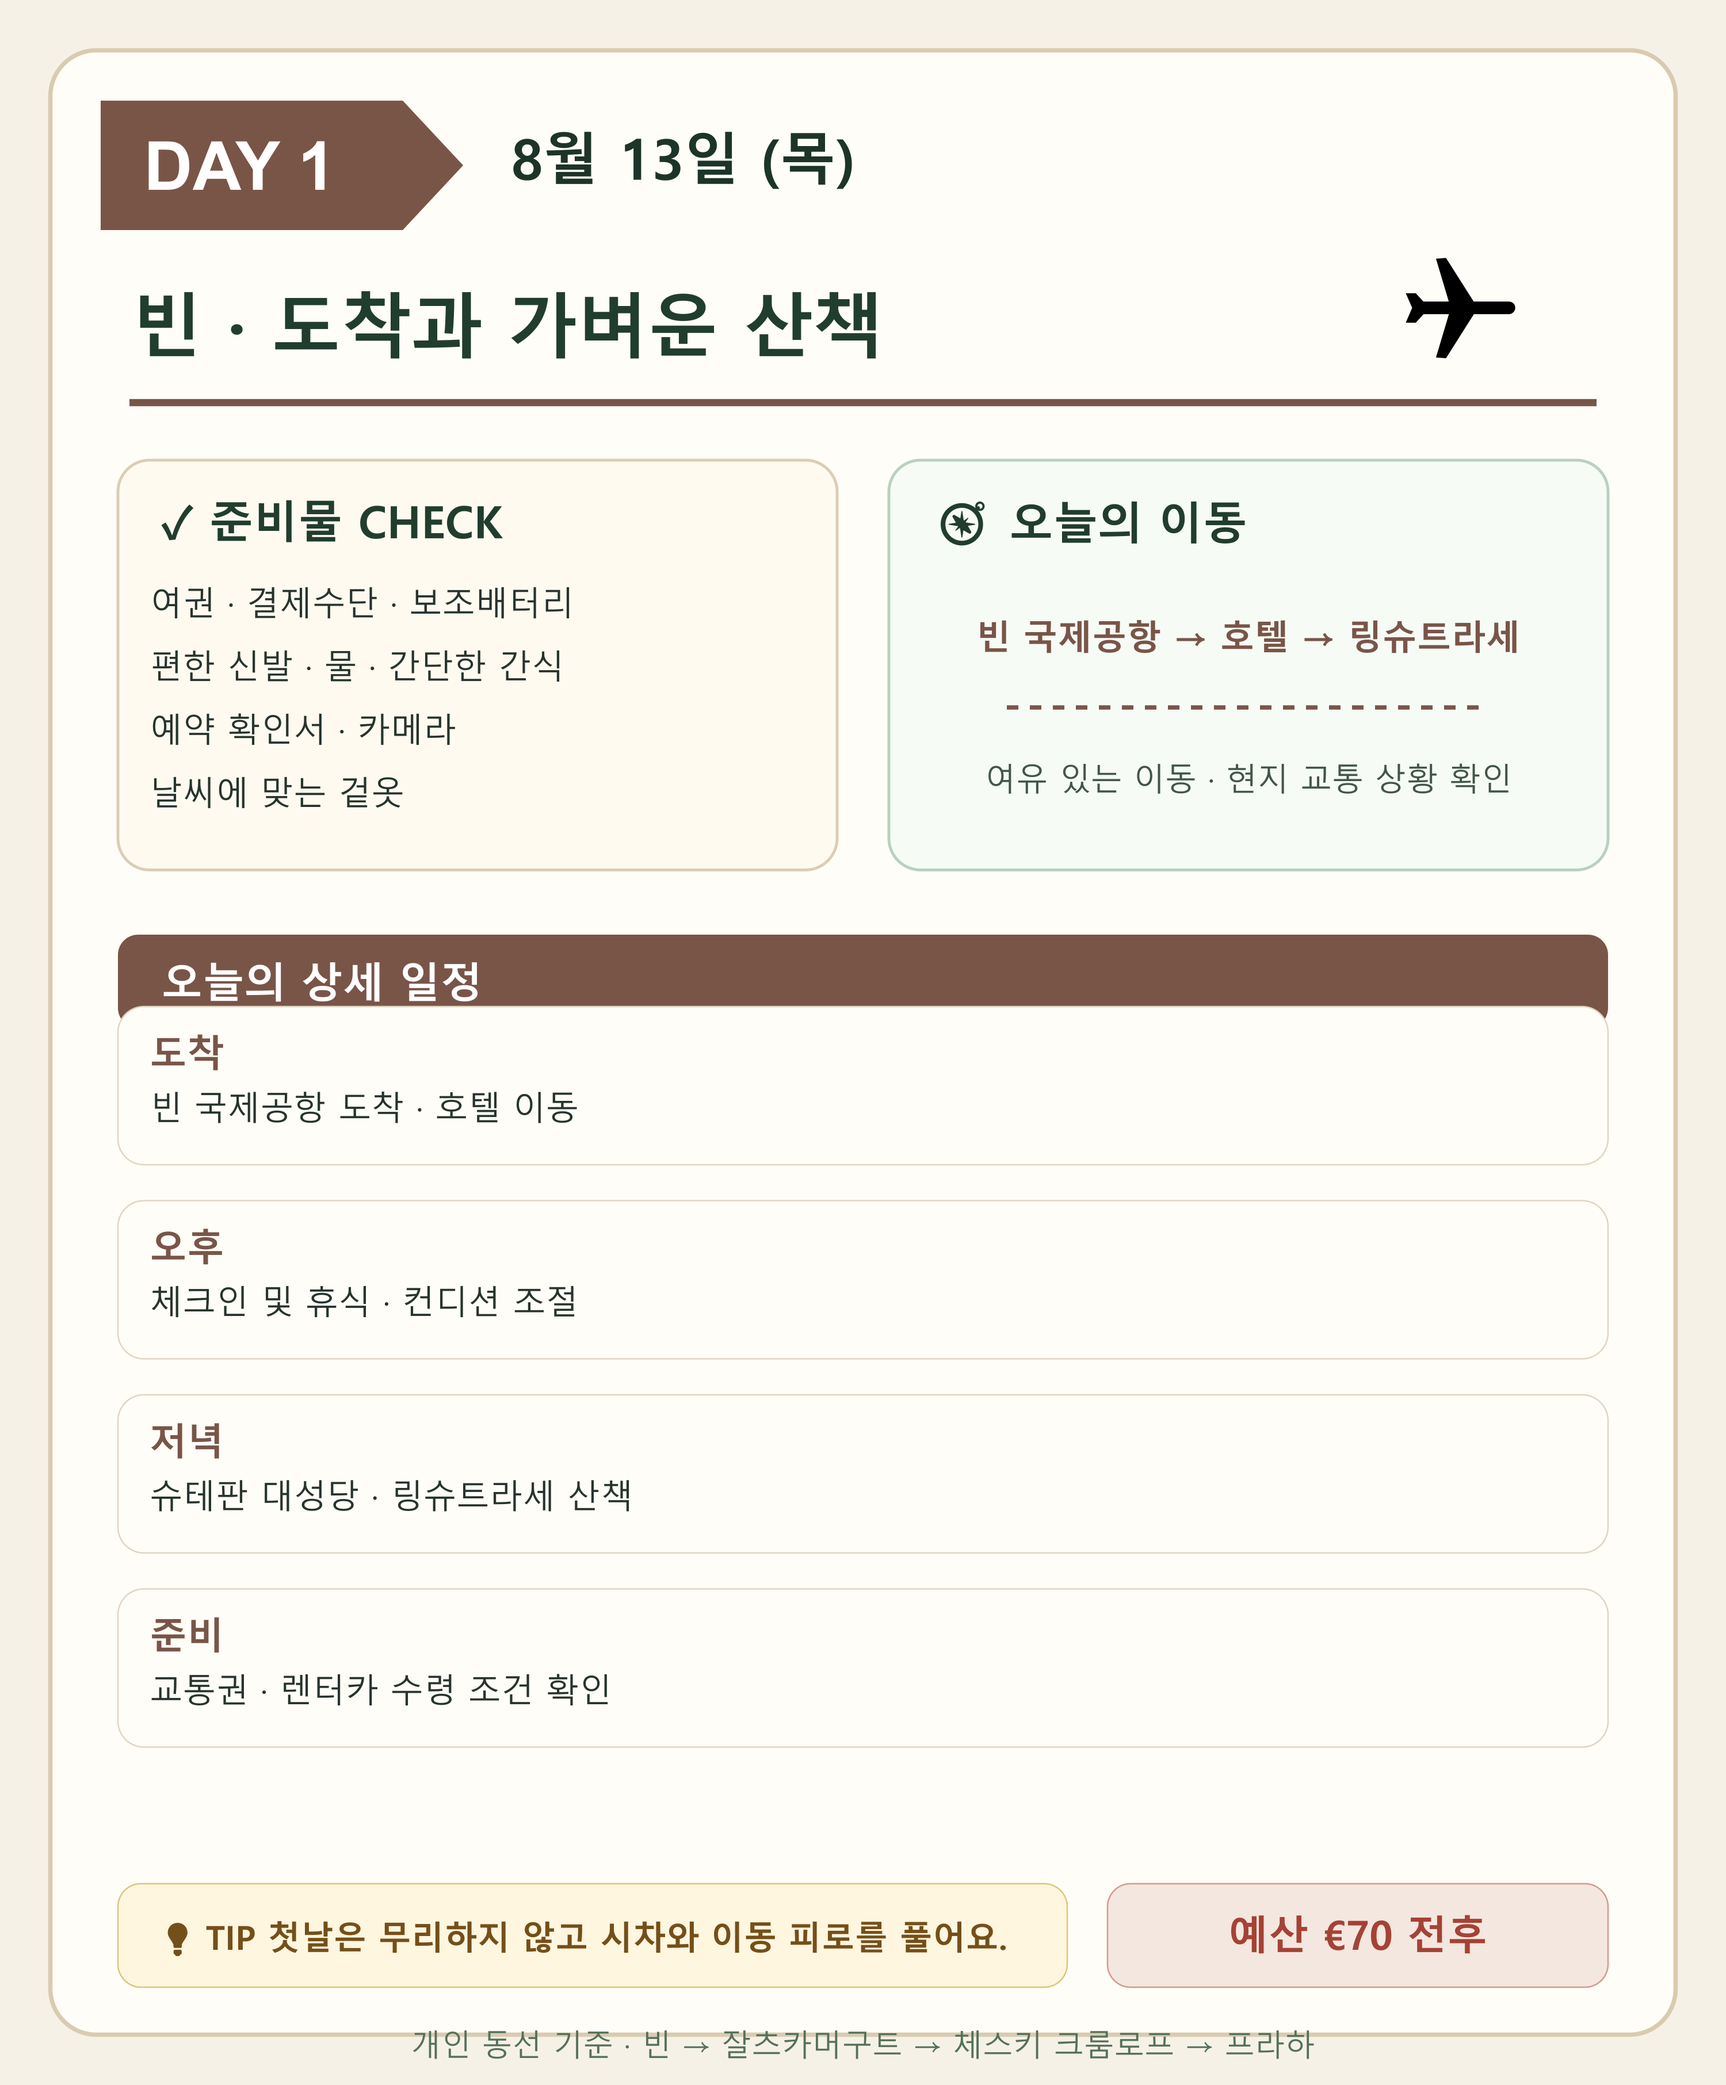
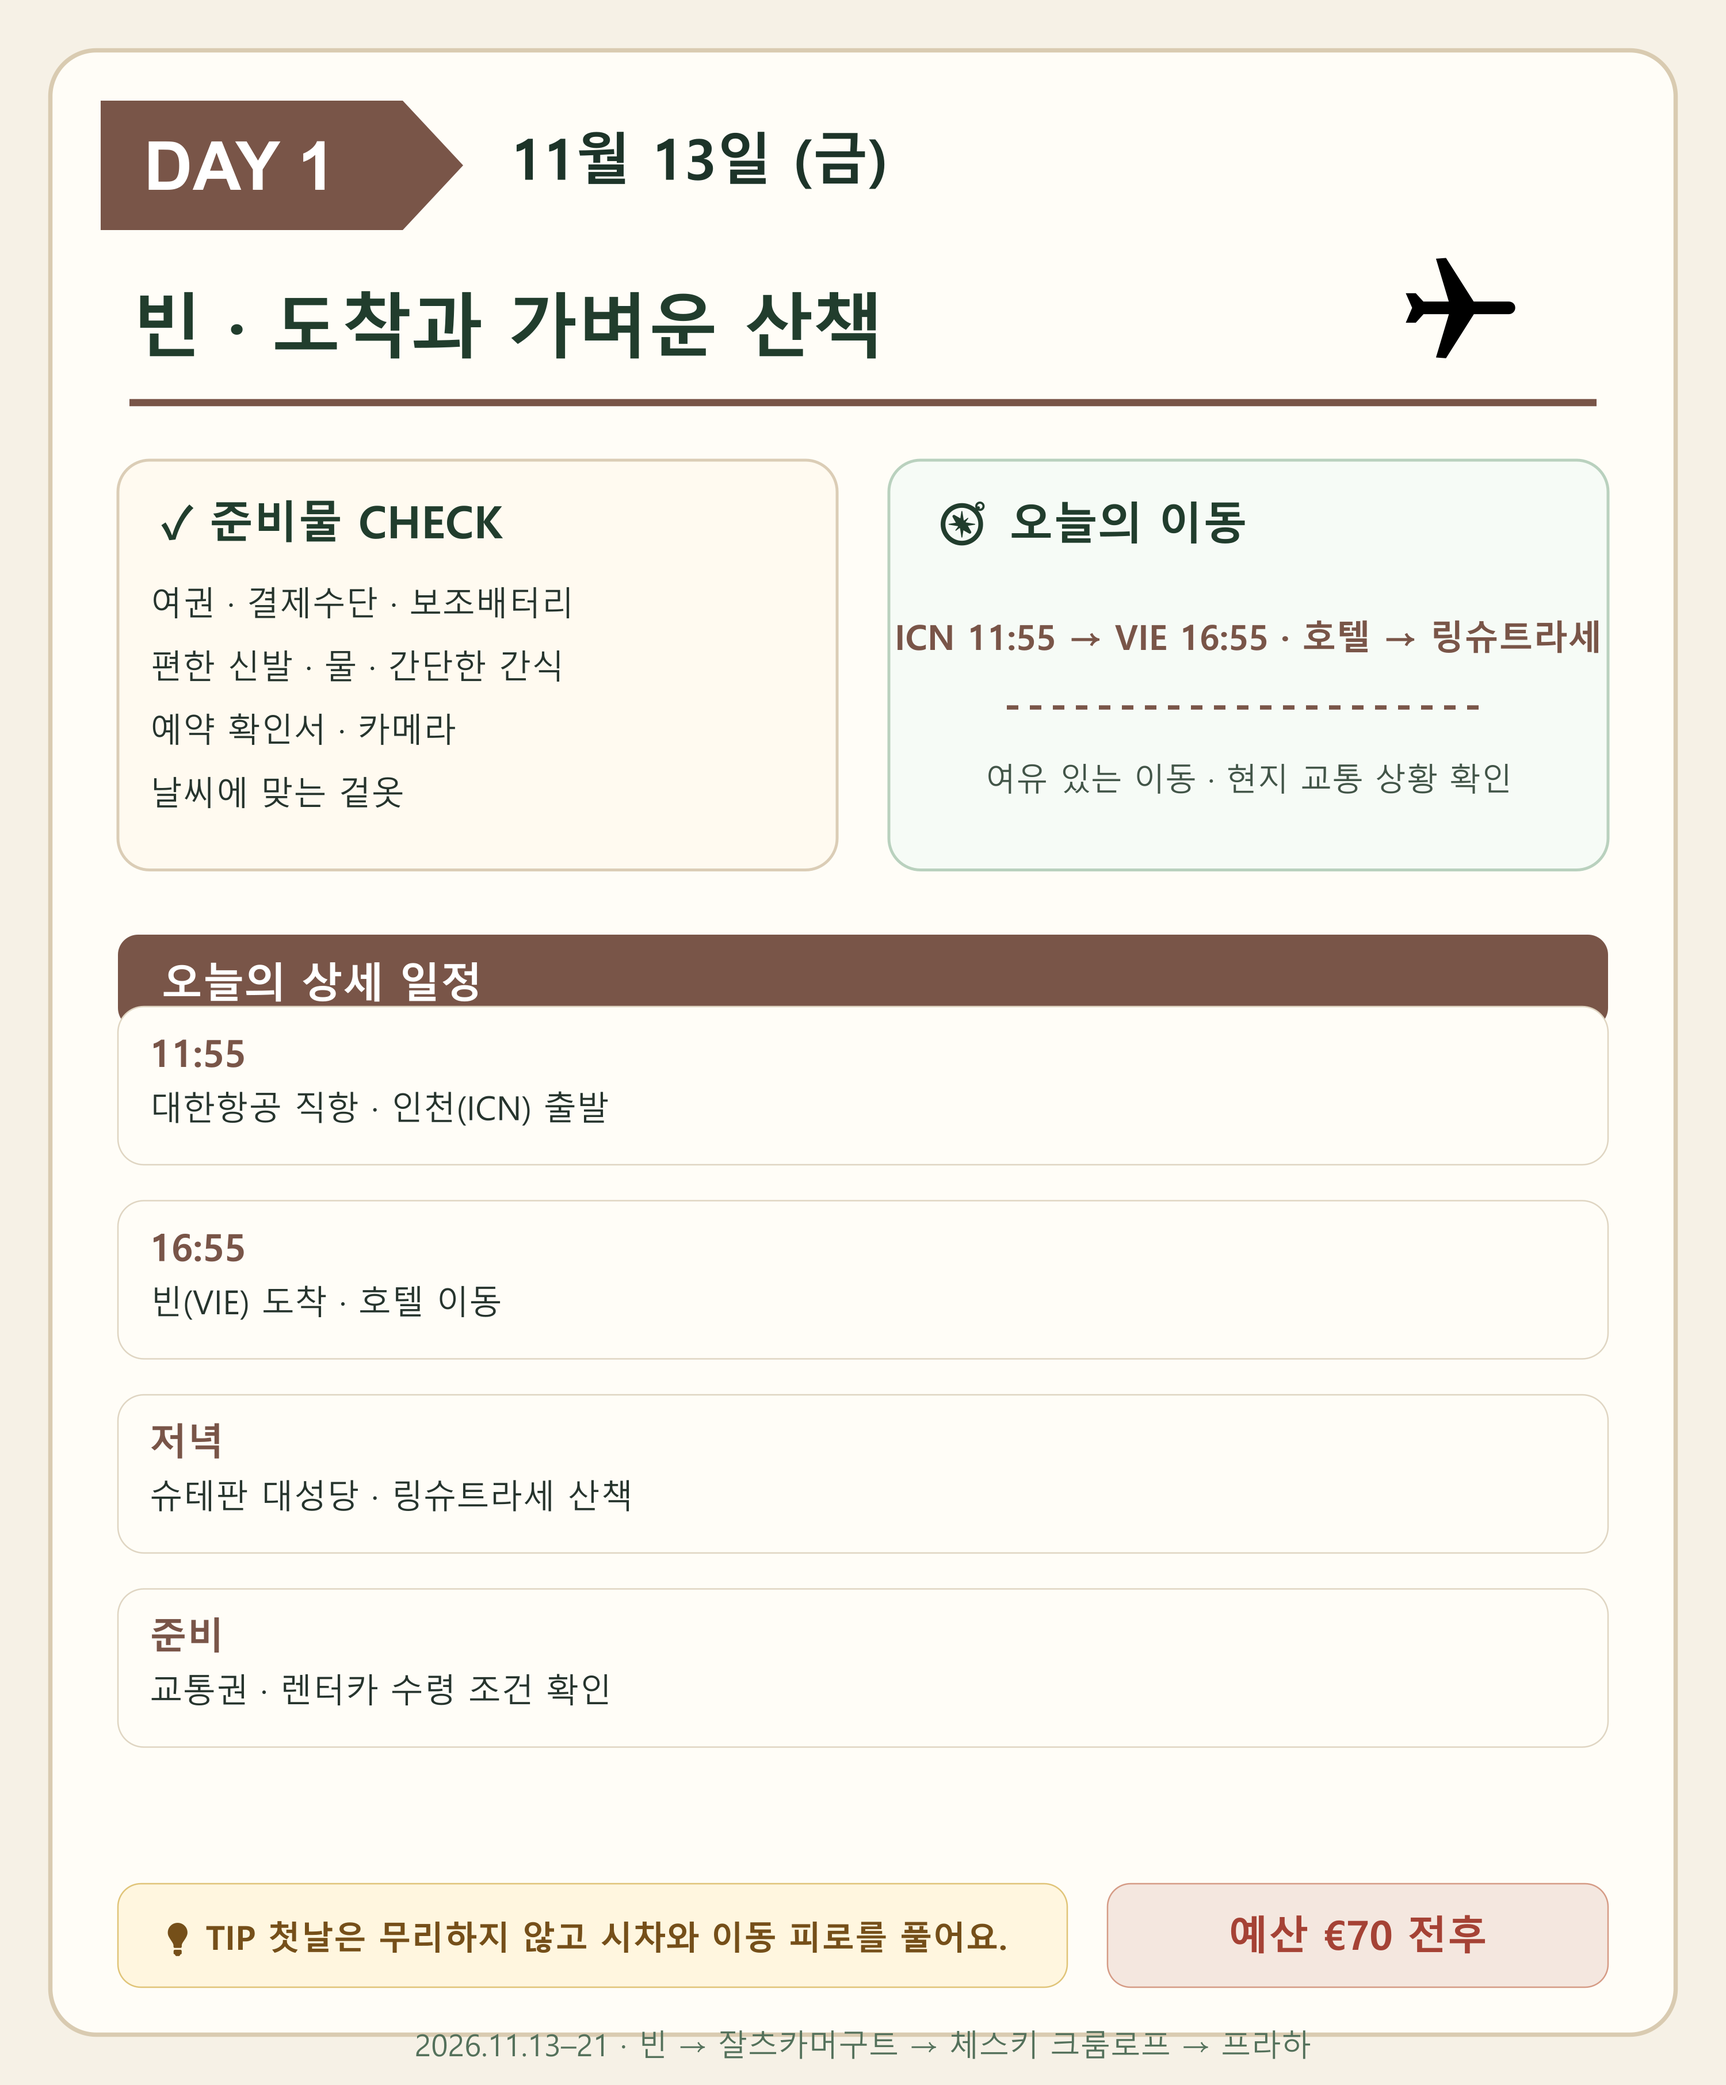
Refresh November travel posters

diff --git a/posters.html b/posters.html
@@ -1,1 +1,20 @@
-<!doctype html><html lang="ko"><meta charset="utf-8"><meta name="viewport" content="width=device-width,initial-scale=1"><title>2026 중부유럽 여행 포스터</title><style>body{margin:0;background:#f4f0e6;color:#203d30;font-family:Malgun Gothic,Arial}header{text-align:center;padding:42px 16px;background:#24553a;color:white}h1{margin:0;font-size:clamp(28px,5vw,46px)}header p{margin:8px 0 0;opacity:.9}.wrap{max-width:920px;margin:auto;padding:28px 16px 56px}figure{margin:0 0 28px;background:white;padding:10px;border:1px solid #d8cfbd;border-radius:16px;box-shadow:0 6px 18px #352b1a1c}img{width:100%;display:block;border-radius:10px}a{color:inherit;text-decoration:none}figcaption{padding:11px 4px 3px;font-weight:bold;font-size:18px}.hint{color:#6a6256;font-size:14px}.map h2{margin:6px 4px 14px}.map{background:#fff8e9}</style><header><h1>빈 · 잘츠카머구트 · 체스키 · 프라하</h1><p>2026년 8월 13–21일 · 개인 동선 기준 여행 포스터</p></header><main class="wrap"><figure class="map"><h2>수작업 동선 지도</h2><a href="europe-trip-images/personal-route-map.png" target="_blank"><img src="europe-trip-images/personal-route-map.png" alt="개인 수작업 여행 동선 지도"></a><figcaption>지도를 누르면 원본 크기로 열립니다.</figcaption></figure><p class="hint">각 일정 포스터를 누르면 원본 크기로 열립니다.</p><figure><a href="personal-itinerary-images/day-1.png" target="_blank"><img src="personal-itinerary-images/day-1.png" alt="Day 1 여행 일정"></a><figcaption>DAY 1 · 원본 크기로 보기</figcaption></figure><figure><a href="personal-itinerary-images/day-2.png" target="_blank"><img src="personal-itinerary-images/day-2.png" alt="Day 2 여행 일정"></a><figcaption>DAY 2 · 원본 크기로 보기</figcaption></figure><figure><a href="personal-itinerary-images/day-3.png" target="_blank"><img src="personal-itinerary-images/day-3.png" alt="Day 3 여행 일정"></a><figcaption>DAY 3 · 원본 크기로 보기</figcaption></figure><figure><a href="personal-itinerary-images/day-4.png" target="_blank"><img src="personal-itinerary-images/day-4.png" alt="Day 4 여행 일정"></a><figcaption>DAY 4 · 원본 크기로 보기</figcaption></figure><figure><a href="personal-itinerary-images/day-5.png" target="_blank"><img src="personal-itinerary-images/day-5.png" alt="Day 5 여행 일정"></a><figcaption>DAY 5 · 원본 크기로 보기</figcaption></figure><figure><a href="personal-itinerary-images/day-6.png" target="_blank"><img src="personal-itinerary-images/day-6.png" alt="Day 6 여행 일정"></a><figcaption>DAY 6 · 원본 크기로 보기</figcaption></figure><figure><a href="personal-itinerary-images/day-7.png" target="_blank"><img src="personal-itinerary-images/day-7.png" alt="Day 7 여행 일정"></a><figcaption>DAY 7 · 원본 크기로 보기</figcaption></figure><figure><a href="personal-itinerary-images/day-8.png" target="_blank"><img src="personal-itinerary-images/day-8.png" alt="Day 8 여행 일정"></a><figcaption>DAY 8 · 원본 크기로 보기</figcaption></figure><figure><a href="personal-itinerary-images/day-9.png" target="_blank"><img src="personal-itinerary-images/day-9.png" alt="Day 9 여행 일정"></a><figcaption>DAY 9 · 원본 크기로 보기</figcaption></figure></main></html>
+<!doctype html>
+<html lang="ko">
+<head>
+  <meta charset="utf-8">
+  <meta name="viewport" content="width=device-width,initial-scale=1">
+  <title>2026 늦가을 중부유럽 여행</title>
+  <style>
+    :root{--ink:#183a2a;--pine:#1f5037;--wine:#873f3b;--paper:#f5f0e4;--cream:#fffdf7;--line:#d7c8ae;--gold:#cc9c4c}*{box-sizing:border-box}body{margin:0;background:radial-gradient(circle at 20% 0,#fffdf7 0 8%,transparent 35%),#eee5d5;color:var(--ink);font:16px/1.65 "Malgun Gothic","Apple SD Gothic Neo",sans-serif}.wrap{max-width:980px;margin:auto;padding:24px 16px 72px}.hero{position:relative;min-height:430px;overflow:hidden;border:1px solid #bda981;border-radius:28px;background:#294a38;box-shadow:0 18px 45px #3f301b44}.hero:after{content:"";position:absolute;inset:0;background:linear-gradient(90deg,#143a2cdd 0%,#143a2c8d 42%,transparent 74%)}.hero img{width:100%;height:430px;object-fit:cover;display:block}.hero-copy{position:absolute;z-index:1;inset:0;padding:45px;color:#fffdf7;display:flex;flex-direction:column;justify-content:center}.tag{display:inline-block;width:max-content;padding:7px 14px;border:1px solid #ead9ad;border-radius:999px;background:#fff8e526;color:#fff4d6;font-weight:700;letter-spacing:.08em}.hero h1{max-width:600px;margin:14px 0 6px;font-family:Georgia,"Times New Roman","Malgun Gothic",serif;font-size:clamp(34px,6vw,62px);line-height:1.12;letter-spacing:-.05em}.hero p{margin:0;font-size:18px;color:#f1e6ce}.flight-grid{display:grid;grid-template-columns:1fr 1fr;gap:15px;margin:22px 0}.flight{position:relative;padding:20px 22px;background:var(--cream);border:1px solid var(--line);border-radius:18px;box-shadow:0 7px 18px #372c1c13}.flight:before{content:"✈";position:absolute;right:18px;top:13px;font-size:31px;opacity:.4}.flight b{display:block;color:var(--wine);font-size:14px;letter-spacing:.06em}.flight strong{display:block;font-size:21px;margin:2px 0}.intro{padding:23px 25px;margin:26px 0;background:#fff8e9;border-left:5px solid var(--gold);border-radius:13px;color:#5a4c37}.map{margin:0 0 38px;padding:13px;background:var(--cream);border:1px solid var(--line);border-radius:20px;box-shadow:0 8px 22px #372c1c15}.map h2{font-size:21px;margin:4px 8px 12px}.map img,.poster img{display:block;width:100%;border-radius:12px}.map figcaption{padding:10px 7px 2px;color:#6d6252;font-size:14px}.poster{margin:0 0 34px;padding:12px;background:var(--cream);border:1px solid var(--line);border-radius:22px;box-shadow:0 10px 24px #372c1c16;transition:transform .2s,box-shadow .2s}.poster:hover{transform:translateY(-3px);box-shadow:0 15px 30px #372c1c24}.poster figcaption{padding:12px 7px 2px;font-size:18px;font-weight:700}.poster span{display:block;color:#786c59;font-size:14px;font-weight:400}a{color:inherit;text-decoration:none}.end{text-align:center;color:#5a755e;font-family:Georgia,"Malgun Gothic",serif;font-size:20px;margin-top:18px}@media(max-width:600px){.wrap{padding:12px 10px 48px}.hero,.hero img{min-height:350px;height:350px}.hero-copy{padding:28px}.flight-grid{grid-template-columns:1fr}.hero h1{font-size:39px}.intro{padding:17px}}
+  </style>
+</head>
+<body>
+  <main class="wrap">
+    <header class="hero"><img src="personal-itinerary-images/central-europe-hero-v2.png" alt="빈, 할슈타트, 프라하 수채화 여행 일러스트"><div class="hero-copy"><span class="tag">AUTUMN TRAVEL JOURNAL · 2026</span><h1>빈에서 프라하까지,<br>늦가을의 중부유럽</h1><p>11월 13일–21일 · 나만의 동선으로 떠나는 9일</p></div></header>
+    <section class="flight-grid" aria-label="항공편"><article class="flight"><b>OUTBOUND · 대한항공 직항</b><strong>ICN 11:55 → VIE 16:55</strong><span>11월 13일 · 인천에서 빈으로</span></article><article class="flight"><b>RETURN · 대한항공 직항</b><strong>PRG 18:30 → ICN 13:50 +1</strong><span>11월 21일 · 프라하에서 인천으로</span></article></section>
+    <p class="intro"><b>빈 → 잘츠카머구트 → 체스키 크룸로프 → 프라하.</b><br>아래 지도와 포스터는 실제 개인 동선을 기준으로 다시 정리했습니다. 포스터를 누르면 원본 크기로 볼 수 있어요.</p>
+    <figure class="map"><h2>🧷 나의 수작업 여행 동선 지도</h2><a href="europe-trip-images/personal-route-map.png" target="_blank"><img src="europe-trip-images/personal-route-map.png" alt="개인 수작업 여행 동선 지도"></a><figcaption>지도를 누르면 원본 크기로 열립니다.</figcaption></figure>
+    <section id="posters"></section><p class="end">좋은 풍경, 좋은 식사, 그리고 충분한 여유를 담아가세요. ♡</p>
+  </main>
+  <script>const dates=['11월 13일 · 빈 도착','11월 14일 · 빈 예술 산책','11월 15일 · 쇤브룬과 클래식','11월 16일 · 잘츠카머구트 이동','11월 17일 · 고사우와 할슈타트','11월 18일 · 체스키 크룸로프 → 프라하','11월 19일 · 프라하 성과 구시가지','11월 20일 · 프라하 도보 여행','11월 21일 · 프라하에서 귀국'];document.querySelector('#posters').innerHTML=dates.map((d,i)=>`<figure class="poster"><a href="personal-itinerary-images/day-${i+1}.png" target="_blank"><img src="personal-itinerary-images/day-${i+1}.png" alt="DAY ${i+1} 여행 일정 포스터"></a><figcaption>DAY ${i+1} · ${d}<span>포스터를 누르면 원본 크기로 열립니다.</span></figcaption></figure>`).join('')</script>
+</body></html>
